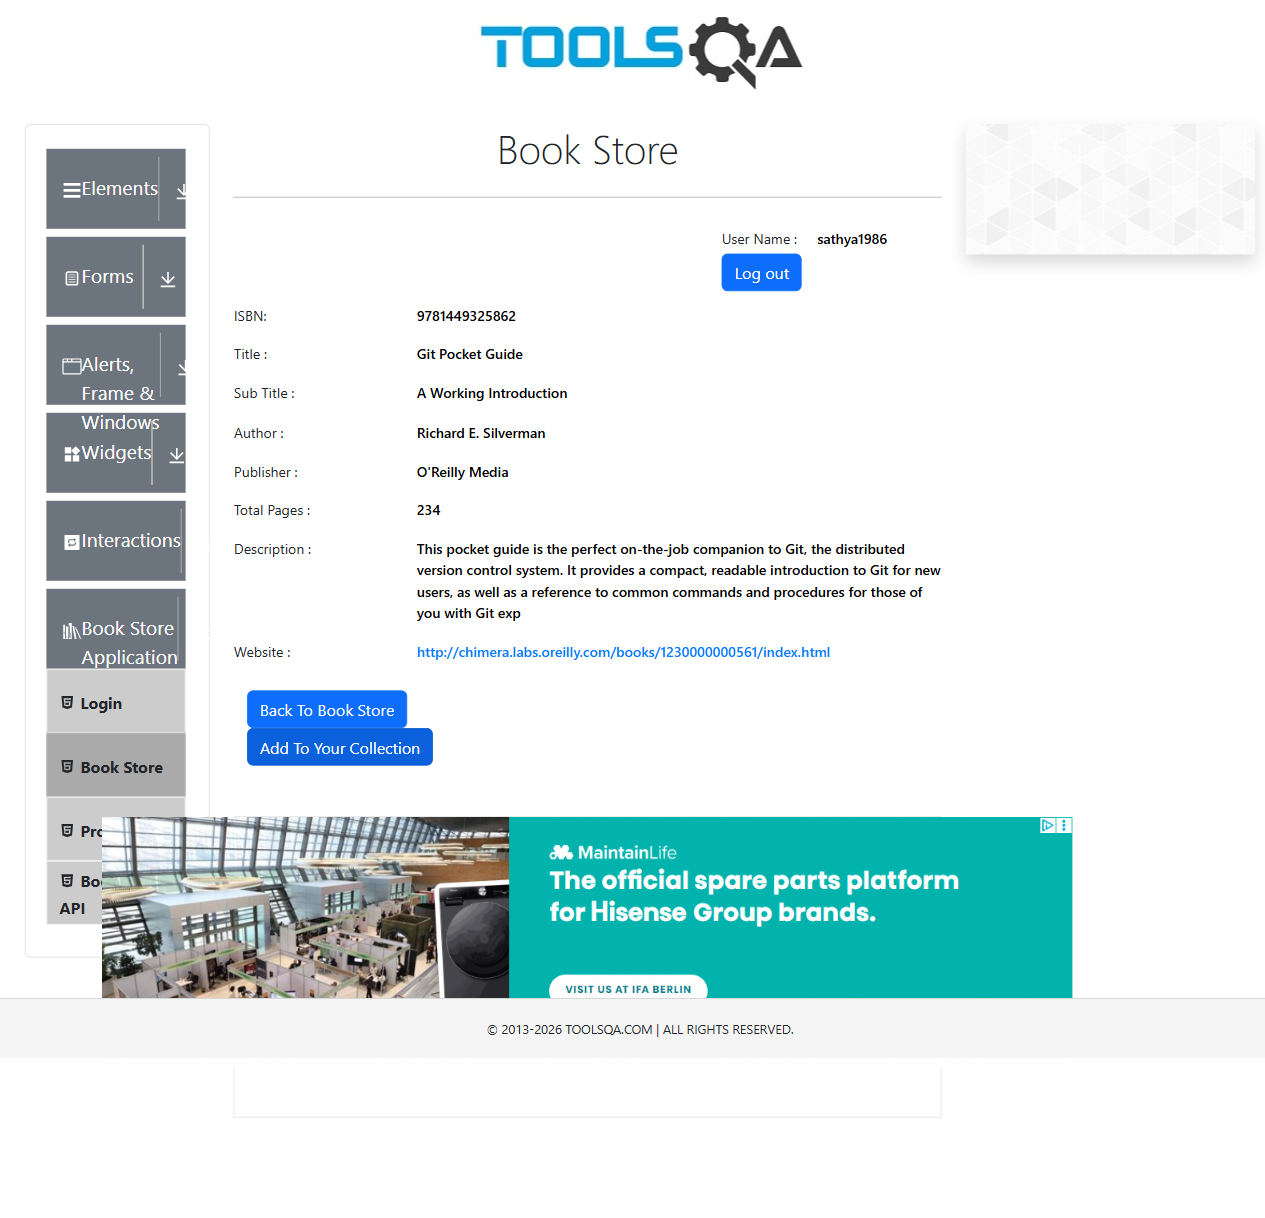
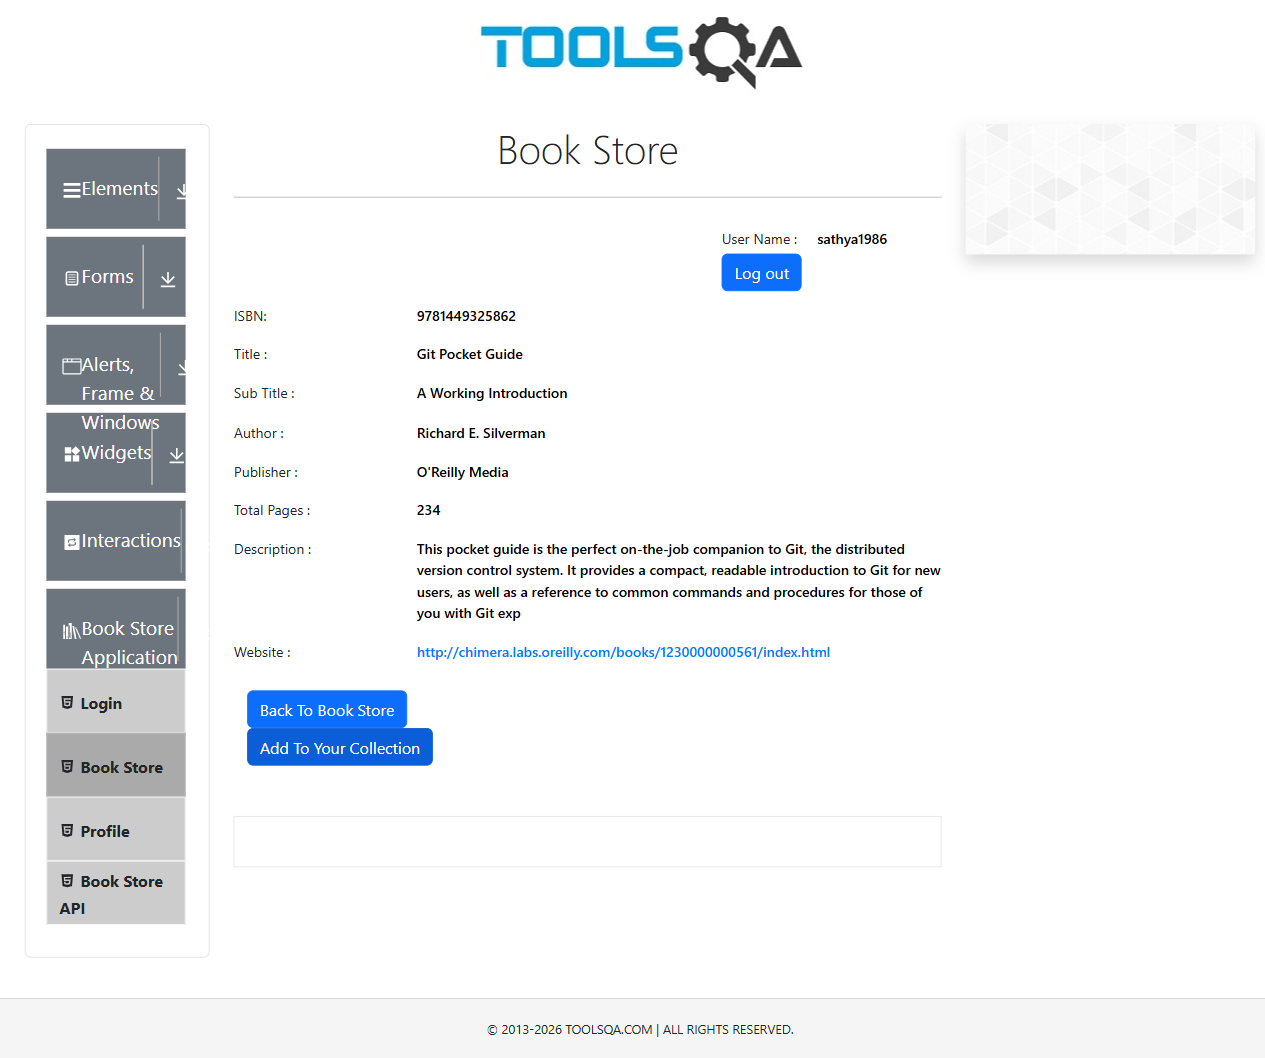
Update pages

diff --git a/src/pages/BookStorePage.ts b/src/pages/BookStorePage.ts
@@ -1,31 +1,64 @@
 import { expect, Page } from '@playwright/test';
 import { logindemoQA, bookStore } from '../locators/DemoQA';
-import { bookStoreData } from '../test_data/testdata';
+import { loginData, bookStoreData } from '../test_data/testdata';
 
-
-export class SearchBooks {constructor(private page: Page) {}
-  async demoQAloginpage(url: string) {
-    await this.page.goto(url);
-  }
+export class SearchBooks {
+  constructor(private page: Page) {}
 
   async bookStore(url: string) {
     await this.page.goto(url);
-}
+  }
+
   async searchBook(searchbook: string) {
-    const bookSearch = bookStore(this.page);
-   // await this.page.pause();
+    const bookSearch = bookStore(this.page); // your existing locator factory — unchanged
+
     await bookSearch.searchBox.fill(searchbook);
     await bookSearch.clicksearch.click();
     await this.page.getByRole('link', { name: 'Git Pocket Guide' }).click();
-// Register BEFORE the action that triggers the dialog
-    await this.page.once('dialog', async (dialog) => {
-    console.log(`Dialog message: ${dialog.message()}`);
-    await dialog.accept(); // equivalent to clicking OK
-  });
+    
 
-    await bookSearch.addToCollection.click(); // this is what opens the alert
-    await this.page.waitForTimeout(1000);
+    // --- Add to Collection ---
+    const [addDialog] = await Promise.all([
+      this.page.waitForEvent('dialog'),
+      bookSearch.addToCollection.click(),
+    ]);
+    //await this.page.pause();
+    const addMessage = addDialog.message();
+    console.log('Add dialog message:', addMessage);
+
+    const expectedAddMessages = [
+      'Book added to your collection.',
+      'Book already present in the your collection!',
+    ];
+    expect(expectedAddMessages).toContain(addMessage);
+
+    await addDialog.accept();
+
     await this.page.screenshot({ path: 'screenshots/bookstorepage.png', fullPage: true });
-}
-  } 
+        // --- Delete from Collection --- (this is the call you were missing)
+    await this.deleteBook(searchbook);
+  }
+    // --- Delete from Collection ---
+   async deleteBook(bookTitle: string) {
+  await this.page.goto('https://demoqa.com/profile');
+  await this.page.waitForLoadState('networkidle');
 
+  const bookRow = this.page.locator(`tr:has-text("${bookTitle}")`);
+  const deleteIcon = bookRow.locator('[id^="delete-record-"]');
+
+  await expect(deleteIcon).toBeVisible({ timeout: 10000 });
+  await deleteIcon.click();
+
+  // This is a real HTML modal, not a native browser dialog — no dialog event involved
+  const modal = this.page.getByRole('dialog'); // Bootstrap modals expose role="dialog"
+
+  await expect(modal.getByText('Do you want to delete this book?')).toBeVisible();
+
+  const message = await modal.getByText('Do you want to delete this book?').textContent();
+  console.log('Delete modal message:', message);
+
+  await modal.getByRole('button', { name: 'OK', exact: true }).click();
+
+  await expect(bookRow).toHaveCount(0);
+  await this.page.screenshot({ path: 'screenshots/after-delete.png', fullPage: true });
+}}

diff --git a/src/locators/DemoQA.ts b/src/locators/DemoQA.ts
@@ -23,9 +23,10 @@ export const bookStore = (page: Page): Record<string, Locator> => ({
     bookName6:       page.getByRole('link', { name: 'Programming JavaScript Applications' }),
     bookName7:       page.getByRole('link', { name: 'Eloquent JavaScript, Second Edition' }),
     bookName8:       page.getByRole('link', { name: 'Understanding ECMAScript 6' }),
-    clicksearch:      page.getByRole('button').filter({ hasText: /^$/ }),
+    clicksearch:     page.getByRole('button').filter({ hasText: /^$/ }),
     addToCollection: page.getByRole('button', { name: 'Add To Your Collection' }),
     backToBookStore: page.getByRole('button', { name: 'Back To Book Store' }),
+    profileBook:     page.getByRole('link', { name: 'Profile' })
 })
 export const demohomepage = (page: Page): Record<string, Locator> => ({
     header:         page.getByRole('img', { name: 'Toolsqa' }),
